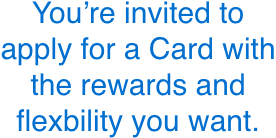
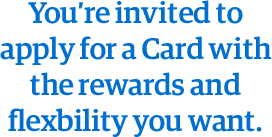
last updates

diff --git a/index.html b/index.html
@@ -1,12 +1,8 @@
 <!-- %%=ContentAreaByName("shared items\shared contents\Required Send Log Variables\SandT_Header")=%%
 %%[
 /* For SFMC production: set subject line(s) and preheader here */
-SET @SubjectLine1 = "Apply today for the Business Cash™ Card. You’ve been pre-approved."
-SET @SubjectLine2 = "You’re pre-approved for the Card that boosts your business’s bottom line. Apply today."
-SET @SubjectLine3 = "You’re pre-approved. Apply today and get the Card with reward flexibility that’ll work for you."
-SET @preview = "Get The Blue Business Cash™ Card and get 2X Membership Rewards® Or 2% Cash Back."
-SET @preview = "Get the Blue Business Cash™ Card and you’ll be able to choose the reward that’s best for your business."
-SET @preview = "Get Reward Flexibility. Get the Blue Business Cash™ Card today."
+SET @SubjectLine1 = "Get the Blue Business Cash™ Card and you’ll be able to choose the reward that’s best for your business"
+SET @preview = "Earn rewards for your business with this powerful card"
 ]%% -->
 <!DOCTYPE html>
 <html xmlns="http://www.w3.org/1999/xhtml" xmlns:v="urn:schemas-microsoft-com:vml" xmlns:o="urn:schemas-microsoft-com:office:office">
@@ -682,13 +678,13 @@ sup {
                 <!-- LINK rates and fees -->
                 <tr>
                   <td align="center" style="padding-bottom: 10px;">
-                    <a href="https://www.americanexpress.com/us/credit-cards/card-application/apply/dtw-card-member/rsvp/terms/bluebusinesscash-credit-card?sourceCode=A0000FF4XY" style="font-size: 14px; line-height: normal; color: #00175A;">Rates & Fees</a>
+                    <a href="https://www.americanexpress.com/us/credit-cards/card-application/apply/dtw-card-member/rsvp/terms/bluebusinesscash-credit-card?sourceCode=A0000FATAW" style="font-size: 14px; line-height: normal; color: #00175A;">Rates & Fees</a>
                   </td>
                 </tr>
                 <!-- LINK -->
                 <!-- <tr>
                   <td id="light-font" align="center" >
-                    <a href="https://www.americanexpress.com/us/credit-cards/card-application/apply/dtw-card-member/rsvp/terms/bluebusinesscash-credit-card?sourceCode=A0000FF4XY" style="font-size: 18px; line-height: normal; color: #FFFFFF;">Rates & Fees</a>
+                    <a href="https://www.americanexpress.com/us/credit-cards/card-application/apply/dtw-card-member/rsvp/terms/bluebusinesscash-credit-card?sourceCode=A0000FATAW" style="font-size: 18px; line-height: normal; color: #FFFFFF;">Rates & Fees</a>
                   </td>
                 </tr> -->   
                 <tr>
@@ -698,7 +694,7 @@ sup {
                       <tr>
                         <td align="center" valign="middle" height="38" style="border-collapse: collapse; border-radius: 3px; color: #FFFFFF; font-family: HelveticaNeue, Helvetica Neue, Helvetica, Arial, sans-serif; font-size: 15px; mso-table-lspace: 0pt; mso-table-rspace: 0pt;"
                           bgcolor="#016fcf">
-                          <a href="http://smb.americanexpress.com/drc/2020/7343/BBC/index.html?fname=%25%25PERSONALIZATION_2%25%25&fname_lname=%25%25PERSONALIZATION_3%25%25&since=%25%25PERSONALIZATION_30%25%25&rsvpBBC=%25%25OFFER_1_RSVP%25%25&rsvpBBP=%25%25PERSONALIZATION_4%25%25&" class="hb-hero-button" target="_blank" style="border: 1px solid #016fcf; border-radius: 3px; color: #FFFFFF; display: inline-block; font-family: HelveticaNeue, Helvetica Neue, Helvetica, Arial, sans-serif; font-weight: normal; line-height: 22px; padding: 8px 0px; text-decoration: none; text-transform: none; width: 196px;">Continue</a>
+                          <a href="http://smb.americanexpress.com/drc/2020/7343/BBC/index.html?fname=%%PERSONALIZATION_2%%&fname_lname=%%PERSONALIZATION_3%%&since=%%PERSONALIZATION_30%%&rsvpBBC=%%OFFER_1_RSVP%%&rsvpBBP=%%PERSONALIZATION_4%%&" class="hb-hero-button" target="_blank" style="border: 1px solid #016fcf; border-radius: 3px; color: #FFFFFF; display: inline-block; font-family: HelveticaNeue, Helvetica Neue, Helvetica, Arial, sans-serif; font-weight: normal; line-height: 22px; padding: 8px 0px; text-decoration: none; text-transform: none; width: 196px;">Continue</a>
                         </td>
                       </tr>
                     </table>
@@ -709,7 +705,7 @@ sup {
                             <table width="196" height="38" cellpadding="0" cellspacing="0" border="0" style="border-radius:3px;">
                               <tr>
                                 <td align="center" valign="middle" width="196" height="38" style="background-color: #016fcf;color: #FFFFFF;border: 1px solid #016fcf;font-family:HelveticaNeue, Helvetica Neue, Helvetica, Arial, sans-serif; font-size:15px;border-radius:3px;">
-                                  <a href="http://smb.americanexpress.com/drc/2020/7343/BBC/index.html?fname=%25%25PERSONALIZATION_2%25%25&fname_lname=%25%25PERSONALIZATION_3%25%25&since=%25%25PERSONALIZATION_30%25%25&rsvpBBC=%25%25OFFER_1_RSVP%25%25&rsvpBBP=%25%25PERSONALIZATION_4%25%25&" target="_blank" style="color: #FFFFFF;font-family:HelveticaNeue, Helvetica Neue, Helvetica, Arial, sans-serif; display: inline-block; text-decoration: none; padding:8px 0px 8px 0px;line-height:22px; width:196px;font-weight:normal;text-transform:none;">Continue</a>
+                                  <a href="http://smb.americanexpress.com/drc/2020/7343/BBC/index.html?fname=%%PERSONALIZATION_2%%&fname_lname=%%PERSONALIZATION_3%%&since=%%PERSONALIZATION_30%%&rsvpBBC=%%OFFER_1_RSVP%%&rsvpBBP=%%PERSONALIZATION_4%%&" target="_blank" style="color: #FFFFFF;font-family:HelveticaNeue, Helvetica Neue, Helvetica, Arial, sans-serif; display: inline-block; text-decoration: none; padding:8px 0px 8px 0px;line-height:22px; width:196px;font-weight:normal;text-transform:none;">Continue</a>
                                 </td>
                               </tr>
                             </table>
@@ -1011,7 +1007,7 @@ sup {
 
                 <tr>
                   <td class="m_pad_b_10" align="center" style="font-size: 18px; line-height: normal; color: #006fcf;">
-                    <img style="padding-bottom: 25px" class="m_hide" src="./images/ready.png" alt="You're invited to apply for a Card with the rewards and flexbility you want.">
+                    <img style="padding-bottom: 0px; margin: 0;" class="m_hide" src="./images/ready.png" alt="You're invited to apply for a Card with the rewards and flexbility you want.">
                     <!--[if !mso]><!-->
                     <img style="max-width: 276px;" class="m_show" src="./images/ready-v2-m.png" alt="You're invited to apply for a Card with the rewards and flexbility you want.">
                     <!--<![endif]-->
@@ -1019,31 +1015,37 @@ sup {
                 </tr>
                 
                 <!-- LINK -->
-                <tr class="m_show">
-                  <td class="m_show" align="center" style="padding-top: 10px;">
-                    <a href=" https://www.americanexpress.com/us/credit-cards/card-application/apply/dtw-card-member/rsvp/terms/bluebusinesscash-credit-card?sourceCode=A0000FATAW" style="font-size: 14px; line-height: normal; color: #00175A;">Rates & Fees</a>
+                <!-- LINK rates and fees -->
+                <tr>
+                  <td class="m_show" align="center" style="padding-top: 15px;">
+                    <a href="https://www.americanexpress.com/us/credit-cards/card-application/apply/dtw-card-member/rsvp/terms/bluebusinesscash-credit-card?sourceCode=A0000FATAW" style="font-size: 14px; line-height: normal; color: #00175A;">Rates & Fees</a>
+                  </td>
+                </tr>
+                <tr>
+                  <td class="m_hide" align="center" style="padding-top: 40px;">
+                    <a href="https://www.americanexpress.com/us/credit-cards/card-application/apply/dtw-card-member/rsvp/terms/bluebusinesscash-credit-card?sourceCode=A0000FATAW" style="font-size: 14px; line-height: normal; color: #00175A;">Rates & Fees</a>
                   </td>
                 </tr>
 
                 <tr>
-                  <td align="center" style="border-collapse: collapse; mso-table-lspace: 0pt; mso-table-rspace: 0pt; padding: 25px 0;">
+                  <td align="center" style="border-collapse: collapse; mso-table-lspace: 0pt; mso-table-rspace: 0pt; padding: 10px 0 25px;">
                     <table width="196" height="38" cellpadding="0" cellspacing="0" border="0" style="border-collapse: collapse; border-radius: 3px; mso-hide: all; mso-table-lspace: 0pt; mso-table-rspace: 0pt;"
                       class="hb-hero-button">
                       <tr>
                         <td align="center" valign="middle" height="38" style="border-collapse: collapse; border-radius: 3px; color: #FFFFFF; font-family: HelveticaNeue, Helvetica Neue, Helvetica, Arial, sans-serif; font-size: 15px; mso-table-lspace: 0pt; mso-table-rspace: 0pt;"
                           bgcolor="#00175a">
-                          <a href="http://smb.americanexpress.com/drc/2020/7343/BBC/index.html?fname=%25%25PERSONALIZATION_2%25%25&fname_lname=%25%25PERSONALIZATION_3%25%25&since=%25%25PERSONALIZATION_30%25%25&rsvpBBC=%25%25OFFER_1_RSVP%25%25&rsvpBBP=%25%25PERSONALIZATION_4%25%25&" class="hb-hero-button" target="_blank" style="border: 1px solid #00175a; border-radius: 3px; color: #FFFFFF; display: inline-block; font-family: HelveticaNeue, Helvetica Neue, Helvetica, Arial, sans-serif; font-weight: normal; line-height: 22px; padding: 8px 0px; text-decoration: none; text-transform: none; width: 196px;">Continue</a>
+                          <a href="http://smb.americanexpress.com/drc/2020/7343/BBC/index.html?fname=%%PERSONALIZATION_2%%&fname_lname=%%PERSONALIZATION_3%%&since=%%PERSONALIZATION_30%%&rsvpBBC=%%OFFER_1_RSVP%%&rsvpBBP=%%PERSONALIZATION_4%%&" class="hb-hero-button" target="_blank" style="border: 1px solid #00175a; border-radius: 3px; color: #FFFFFF; display: inline-block; font-family: HelveticaNeue, Helvetica Neue, Helvetica, Arial, sans-serif; font-weight: normal; line-height: 22px; padding: 8px 0px; text-decoration: none; text-transform: none; width: 196px;">Continue</a>
                         </td>
                       </tr>
                     </table>
                     <!--[if mso]>
-                      <table border="0" cellspacing="0" cellpadding="0" align="center" style="display: none; mso-hide: none!important; border-collapse: collapse; mso-table-lspace: 0pt; mso-table-rspace: 0pt; padding: 50px 0 25px;">
+                      <table border="0" cellspacing="0" cellpadding="0" align="center" style="display: none; mso-hide: none!important; border-collapse: collapse; mso-table-lspace: 0pt; mso-table-rspace: 0pt; padding: 10px 0 25px;">
                         <tr>
                           <td>
                             <table width="196" height="38" cellpadding="0" cellspacing="0" border="0" style="border-radius:3px;">
                               <tr>
                                 <td align="center" valign="middle" width="196" height="38" style="background-color: #00175a;color: #FFFFFF;border: 1px solid #00175a;font-family:HelveticaNeue, Helvetica Neue, Helvetica, Arial, sans-serif; font-size:15px;border-radius:3px;">
-                                  <a href="http://smb.americanexpress.com/drc/2020/7343/BBC/index.html?fname=%25%25PERSONALIZATION_2%25%25&fname_lname=%25%25PERSONALIZATION_3%25%25&since=%25%25PERSONALIZATION_30%25%25&rsvpBBC=%25%25OFFER_1_RSVP%25%25&rsvpBBP=%25%25PERSONALIZATION_4%25%25&" target="_blank" style="color: #FFFFFF;font-family:HelveticaNeue, Helvetica Neue, Helvetica, Arial, sans-serif; display: inline-block; text-decoration: none; padding:8px 0px 8px 0px;line-height:22px; width:196px;font-weight:normal;text-transform:none;">Continue</a>
+                                  <a href="http://smb.americanexpress.com/drc/2020/7343/BBC/index.html?fname=%%PERSONALIZATION_2%%&fname_lname=%%PERSONALIZATION_3%%&since=%%PERSONALIZATION_30%%&rsvpBBC=%%OFFER_1_RSVP%%&rsvpBBP=%%PERSONALIZATION_4%%&" target="_blank" style="color: #FFFFFF;font-family:HelveticaNeue, Helvetica Neue, Helvetica, Arial, sans-serif; display: inline-block; text-decoration: none; padding:8px 0px 8px 0px;line-height:22px; width:196px;font-weight:normal;text-transform:none;">Continue</a>
                                 </td>
                               </tr>
                             </table>
@@ -1111,12 +1113,13 @@ sup {
                     <div style="color: #53565a; cursor: auto; font-family: HelveticaNeue, Helvetica Neue, Helvetica, Arial, sans-serif; font-size: 12px; line-height: 18px;">
                     <p>Terms and Conditions
                       <br /><br />
-                      1. You can earn a $250 statement credit after you spend $5,000 or more (the “Threshold Amount”) in eligible purchases[<span style="font-size: 18px;">*</span>] on your Card within your first 6 months of Card Membership starting from the date your account is approved.
+                      1. You can earn a $250 statement credit after you spend $5,000 or more (the “Threshold Amount”) in eligible purchases<span style="font-size: 13px;">[*]</span> on your Card within your first 6 months of Card Membership starting from the date your account is approved.
                       <br><br>
                       You can earn an additional $250 statement credit after you spend an additional $10,000 or more in eligible purchases on your Card within your first year of Card Membership starting from the date your account is approved. The $250 statement credit(s) will appear on your monthly billing statement within 8-12 weeks after you have charged $5,000 or more in eligible purchases and 8-12 weeks after having charged an additional $10,000 in eligible purchases, provided that your Card account is not canceled or past due.  If we in our sole discretion determine that you have engaged in abuse, misuse, or gaming in connection with the welcome offer in any way or that you intend to do so (for example, if you applied for one or more cards to obtain a welcome offer (s) that we did not intend for you; if you cancel or downgrade your account within 12 months after acquiring it; or if you cancel or return purchases you made to meet the Threshold Amount), we may not credit the statement credits to, we may freeze the statement credits credited to, or we may take away statement credits from your account. We may also cancel this Card account and other Card accounts you may have with us. Eligible purchases can be made by the Basic Card Member and any Additional Card Members on a single Card account. Limit one offer per Card Account. Offer may not be combined with any other special offer. 
                       <br><br>
-                      [<span style="font-size: 18px;">*</span>]Eligible purchases are purchases of goods and services minus returns and other credits. Eligible purchases do NOT include fees or interest charges, purchases of traveler's checks, purchases or reloading of prepaid cards, purchases of gift cards; person-to-person payments, or purchases of other cash equivalents. Additional terms and restrictions apply.
-You can earn a $250 statement credit after you spend $5,000 or more in eligible purchases on your Card within your first 6 months of Card Membership and earn an additional $250 statement credit after you spend an additional $10,000 in eligible purchases within your first year of Card Membership starting from the date your account is approved. In rare instances, your period to spend $250 in 6 months or spend an additional $10,000 within your first year of Card Membership may be shorter than 6 months or your first year if there is a delay in receiving your Card. Also, purchases may fall outside of the 6 months or one year period in some cases, such as a delay in merchants submitting transactions to us or if the purchase date differs from the date you made the transaction. (For example, if you buy goods online, the purchase date may be the date the goods are shipped).
+                      <span style="font-size: 13px;">[*]</span>Eligible purchases are purchases of goods and services minus returns and other credits. Eligible purchases do NOT include fees or interest charges, purchases of traveler's checks, purchases or reloading of prepaid cards, purchases of gift cards; person-to-person payments, or purchases of other cash equivalents. Additional terms and restrictions apply.
+                      <br><br>
+                      You can earn a $250 statement credit after you spend $5,000 or more in eligible purchases on your Card within your first 6 months of Card Membership and earn an additional $250 statement credit after you spend an additional $10,000 in eligible purchases within your first year of Card Membership starting from the date your account is approved. In rare instances, your period to spend $250 in 6 months or spend an additional $10,000 within your first year of Card Membership may be shorter than 6 months or your first year if there is a delay in receiving your Card. Also, purchases may fall outside of the 6 months or one year period in some cases, such as a delay in merchants submitting transactions to us or if the purchase date differs from the date you made the transaction. (For example, if you buy goods online, the purchase date may be the date the goods are shipped).
                       <br><br>
                       2. Cash back can be received on eligible purchases made on your Blue Business Cash Card. The cash back is based on a percentage of the eligible purchases you make during each billing period and will be automatically credited to your account as a statement credit. The statement credit will automatically appear by the second billing statement you receive after the billing statement with the eligible purchases. You will not receive a statement credit for eligible purchases made if you do not pay the minimum payment due by the Closing Date of the billing period in which it is due, or if your Card account is cancelled before the credit is issued. For each calendar year (starting January 1st and ending December 31st), you will receive a statement credit of: 2% on your first $50,000 of eligible purchases; then 1%on all other eligible purchases.
                       <br><br>
